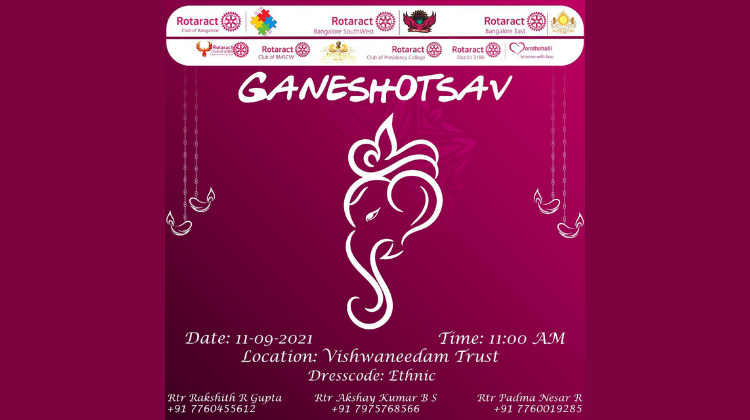
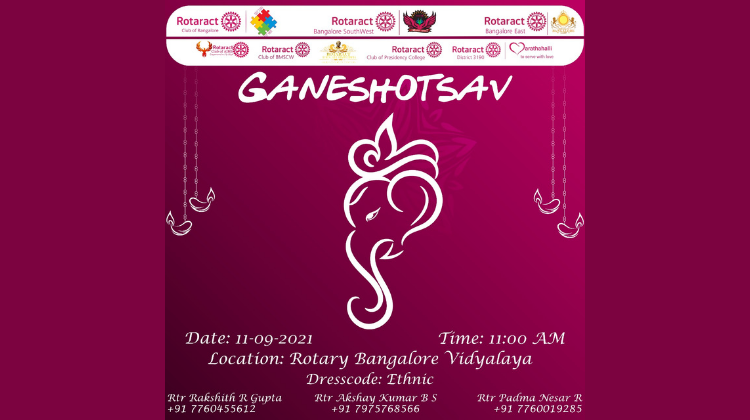
poster update

Changed region(s): [[0.276, 0.8357, 0.7053, 0.9286]]

diff --git a/_events/2021-09-09-geneshotsav.md b/_events/2021-09-09-geneshotsav.md
@@ -2,7 +2,7 @@
 layout: event
 title: GENESHOTSAV
 start: 2021-09-11 11:00
-end: 2021-09-11 18:00
+end: 2021-09-11 16:00
 author: rbe
 venue: Rotary Bangalore Vidyalaya
 button_text: Location
